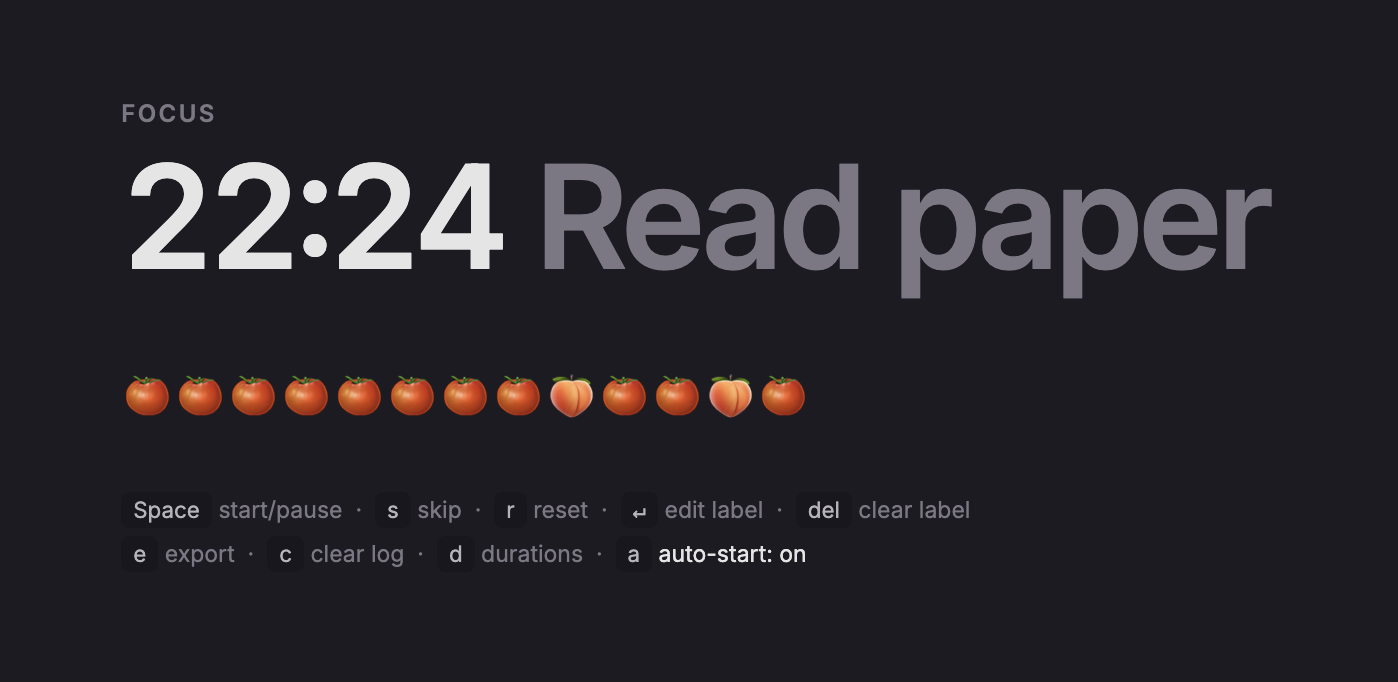
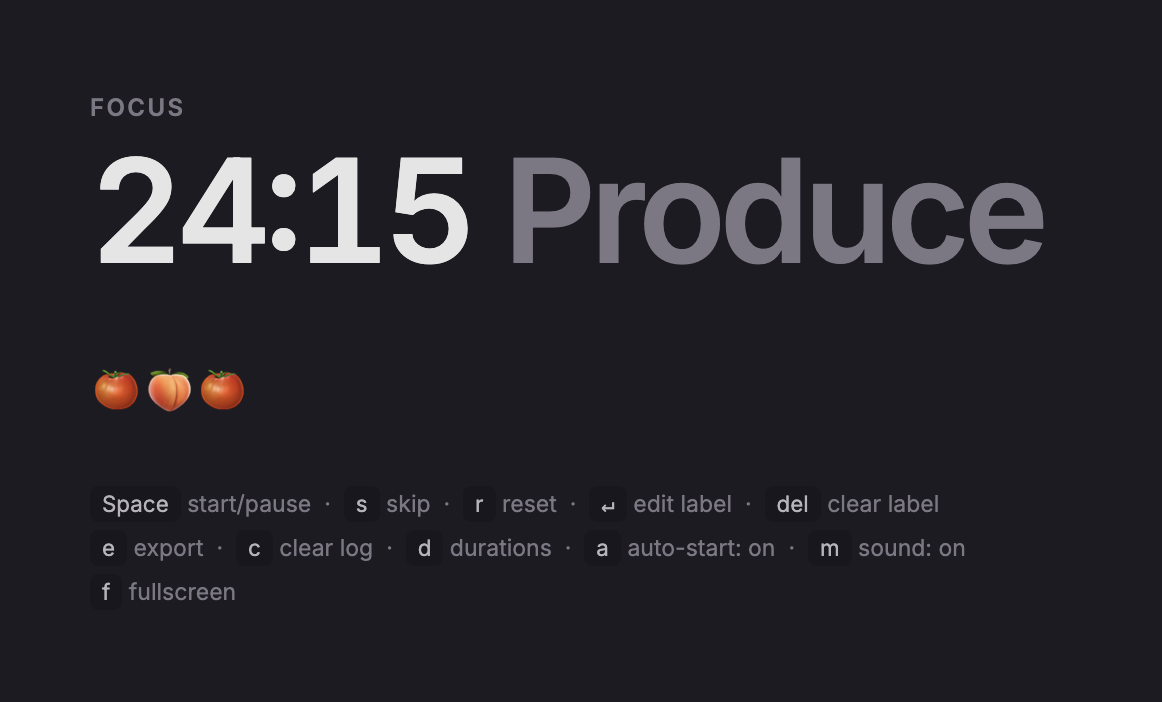
update readme

diff --git a/README.md b/README.md
@@ -9,7 +9,8 @@ Browser-based Pomodoro timer for my personal use. Vibe coded with [Claude](https
 ## what it does
 
 - Single-file Pomodoro timer: 25-min focus / 5-min break, with an optional 20-min long break every 4th session
-- Logs completed sessions (🍅) and skipped ones (🍑); hover over any entry for labels and timestamp
+- Logs completed sessions (🍅) and skipped ones (🍑); hover over or click any entry for details
+- Export of focus sessions to calendar events
 
 ## how to use it
 
@@ -25,5 +26,6 @@ Browser-based Pomodoro timer for my personal use. Vibe coded with [Claude](https
 | `d` | set durations |
 | `a` | cycle auto-start (off → breaks → on) |
 | `m` | cycle sound (on → finish → off) |
+| `f` | toggle fullscreen |
 
 Press `e` to download a `.ics` calendar file of your completed focus sessions.
